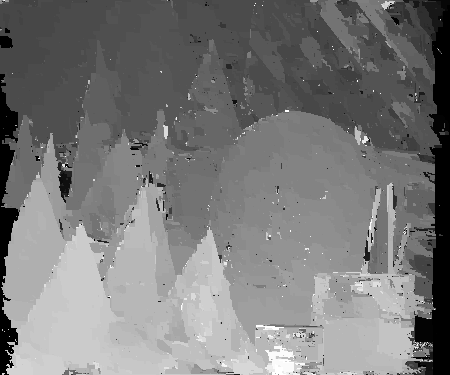
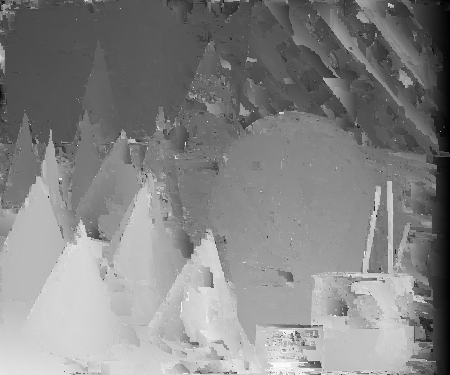
2022_08_12_PlaneRefineΔ

diff --git a/PMSPropagation.cpp b/PMSPropagation.cpp
@@ -43,6 +43,10 @@ PMSPropagation::PMSPropagation(const PMSOption &option,
                                         -option._maxDisparity, -option._minDisparity,
                                         option._gamma, option._alpha, option._tauCol, option._tauGrad);
 
+    // 随机数生成器
+    _randDisp = new std::uniform_real_distribution<float32>(-1.0f, 1.0f);
+    _randNorm = new std::uniform_real_distribution<float32>(-1.0f, 1.0f);
+
     // 计算初始代价数据
     computeCostData();
 }
@@ -50,6 +54,8 @@ PMSPropagation::PMSPropagation(const PMSOption &option,
 PMSPropagation::~PMSPropagation() {
     SAFE_DELETE(_costCptLeft);
     SAFE_DELETE(_costCptRight);
+    SAFE_DELETE(_randDisp);
+    SAFE_DELETE(_randNorm);
 }
 
 void PMSPropagation::computeCostData() {
@@ -90,6 +96,11 @@ void PMSPropagation::doPropagation() {
 
             // 空间传播
             spatialPropagation(x, y, dir);
+
+            // 平面优化
+            if (!_option._isForceFpw) {
+                planeRefine(x, y);
+            }
 
             x += dir;
         }
@@ -135,5 +146,82 @@ void PMSPropagation::spatialPropagation(const sint32 &x, const sint32 &y, const 
                 costP = cost;
             }
         }
+    }
+}
+
+void PMSPropagation::planeRefine(const sint32 &x, const sint32 &y) {
+    auto minDisp = _option._minDisparity;
+    auto maxDisp = _option._maxDisparity;
+
+    // 像素p的平面、代价、视差、法线
+    auto &planeP = _planeLeft[y * _width + x];
+    auto &costP = _costLeft[y * _width + x];
+    float32 dispP = planeP.getDisparity(x, y);
+    PVector3f normP = planeP.getNormal();
+
+    // 迭代条件
+    float32 dispUpdate = float32(maxDisp - minDisp) / 2.0f;
+    float32 normUpdate = 1.0f;
+    const float32 stopThres = 0.1f;
+
+    // 代价计算器
+    auto *costCpt = dynamic_cast<CostComputerPMS *>(_costCptLeft);
+
+    // 随机数生成器
+    std::random_device rd;
+    std::mt19937 gen(rd());
+    auto &randDisp = *_randDisp;
+    auto &randNorm = *_randNorm;
+
+    // 迭代优化
+    while (dispUpdate > stopThres) {
+        // 在 -disp_update ~ disp_update 范围内随机一个视差增量
+        float32 dispRd = randDisp(gen) * dispUpdate;
+        if (_option._isIntegerDisp) {
+            dispRd = static_cast<float32>(round(dispRd));
+        }
+
+        float32 dispPNew = dispP + dispRd;
+        if (dispPNew < float32(minDisp) || dispPNew > float32(maxDisp)) {
+            dispUpdate /= 2.0f;
+            normUpdate /= 2.0f;
+            continue;
+        }
+
+        // 在 -norm_update ~ norm_update 范围内随机三个值作为法线增量的三个分量
+        PVector3f normRd;
+        if (!_option._isForceFpw) {
+            normRd._x = randNorm(gen) * normUpdate;
+            normRd._y = randNorm(gen) * normUpdate;
+            float32 z = randNorm(gen) * normUpdate;
+            while (z == 0.0f) {
+                z = randNorm(gen) * normUpdate;
+            }
+            normRd._z = z;
+        } else {
+            normRd._x = 0.0f;
+            normRd._y = 0.0f;
+            normRd._z = 0.0f;
+        }
+        // 计算像素p新的法线
+        auto normPNew = normP + normRd;
+        normPNew.normalize();
+
+        // 计算新的视差平面
+        auto planeNew = DisparityPlane(x, y, normPNew, dispPNew);
+
+        // 比较Cost
+        if (planeNew != planeP) {
+            float32 cost = costCpt->computeAggregation(x, y, planeNew);
+            if (cost < costP) {
+                planeP = planeNew;
+                costP = cost;
+                dispP = dispPNew;
+                normP = normPNew;
+            }
+        }
+
+        dispUpdate /= 2.0f;
+        normUpdate /= 2.0f;
     }
 }

diff --git a/PatchMatchStereo.cpp b/PatchMatchStereo.cpp
@@ -135,9 +135,9 @@ void PatchMatchStereo::randomInitialization() {
 
     std::random_device rd;
     std::mt19937 gen(rd());
-    std::uniform_real_distribution<float32> rand_d(static_cast<float32>(minDisparity),
-                                                   static_cast<float32>(maxDisparity));
-    std::uniform_real_distribution<float32> rand_n(-1.0f, 1.0f);
+    std::uniform_real_distribution<float32> randDisp(static_cast<float32>(minDisparity),
+                                                     static_cast<float32>(maxDisparity));
+    std::uniform_real_distribution<float32> randNorm(-1.0f, 1.0f);
 
     for (sint32 k = 0; k < 2; k++) {
         float32 *dispPtr = k == 0 ? _dispLeft : _dispRight;
@@ -149,7 +149,7 @@ void PatchMatchStereo::randomInitialization() {
                 const sint32 p = y * width + x;;
 
                 // 随机视差值
-                float32 disp = sign * rand_d(gen);
+                float32 disp = sign * randDisp(gen);
                 if (option._isIntegerDisp) {
                     disp = static_cast<float32>(round(disp));
                 }
@@ -158,11 +158,11 @@ void PatchMatchStereo::randomInitialization() {
                 // 随机法向量
                 PVector3f norm;
                 if (!option._isForceFpw) {
-                    norm._x = rand_n(gen);
-                    norm._y = rand_n(gen);
-                    float32 z = rand_n(gen);
+                    norm._x = randNorm(gen);
+                    norm._y = randNorm(gen);
+                    float32 z = randNorm(gen);
                     while (z == 0.0f) {
-                        z = rand_n(gen);
+                        z = randNorm(gen);
                     }
                     norm._z = z;
                     norm.normalize();

diff --git a/PMSPropagation.h b/PMSPropagation.h
@@ -6,6 +6,7 @@
 #define PMSPROPAGATION_H
 
 
+#include <random>
 #include "PMSType.h"
 #include "CostComputer.hpp"
 
@@ -59,6 +60,10 @@ private:
     /** \brief 传播迭代次数 */
     sint32 _numIter;
 
+    /** \brief 随机数生成器 */
+    std::uniform_real_distribution<float32>* _randDisp;
+    std::uniform_real_distribution<float32>* _randNorm;
+
     /** \brief 计算代价数据 */
     void computeCostData();
 
@@ -69,6 +74,20 @@ private:
      * \param direction 传播方向
      */
     void spatialPropagation(const sint32& x, const sint32& y, const sint32& direction);
+
+    /**
+     * \brief 视图传播
+     * \param x 像素x坐标
+     * \param y 像素y坐标
+     */
+    void viewPropagation(const sint32& x, const sint32& y);
+
+    /**
+     * \brief 平面优化
+     * \param x 像素x坐标
+     * \param y 像素y坐标
+     */
+    void planeRefine(const sint32& x, const sint32& y);
 };
 
 
